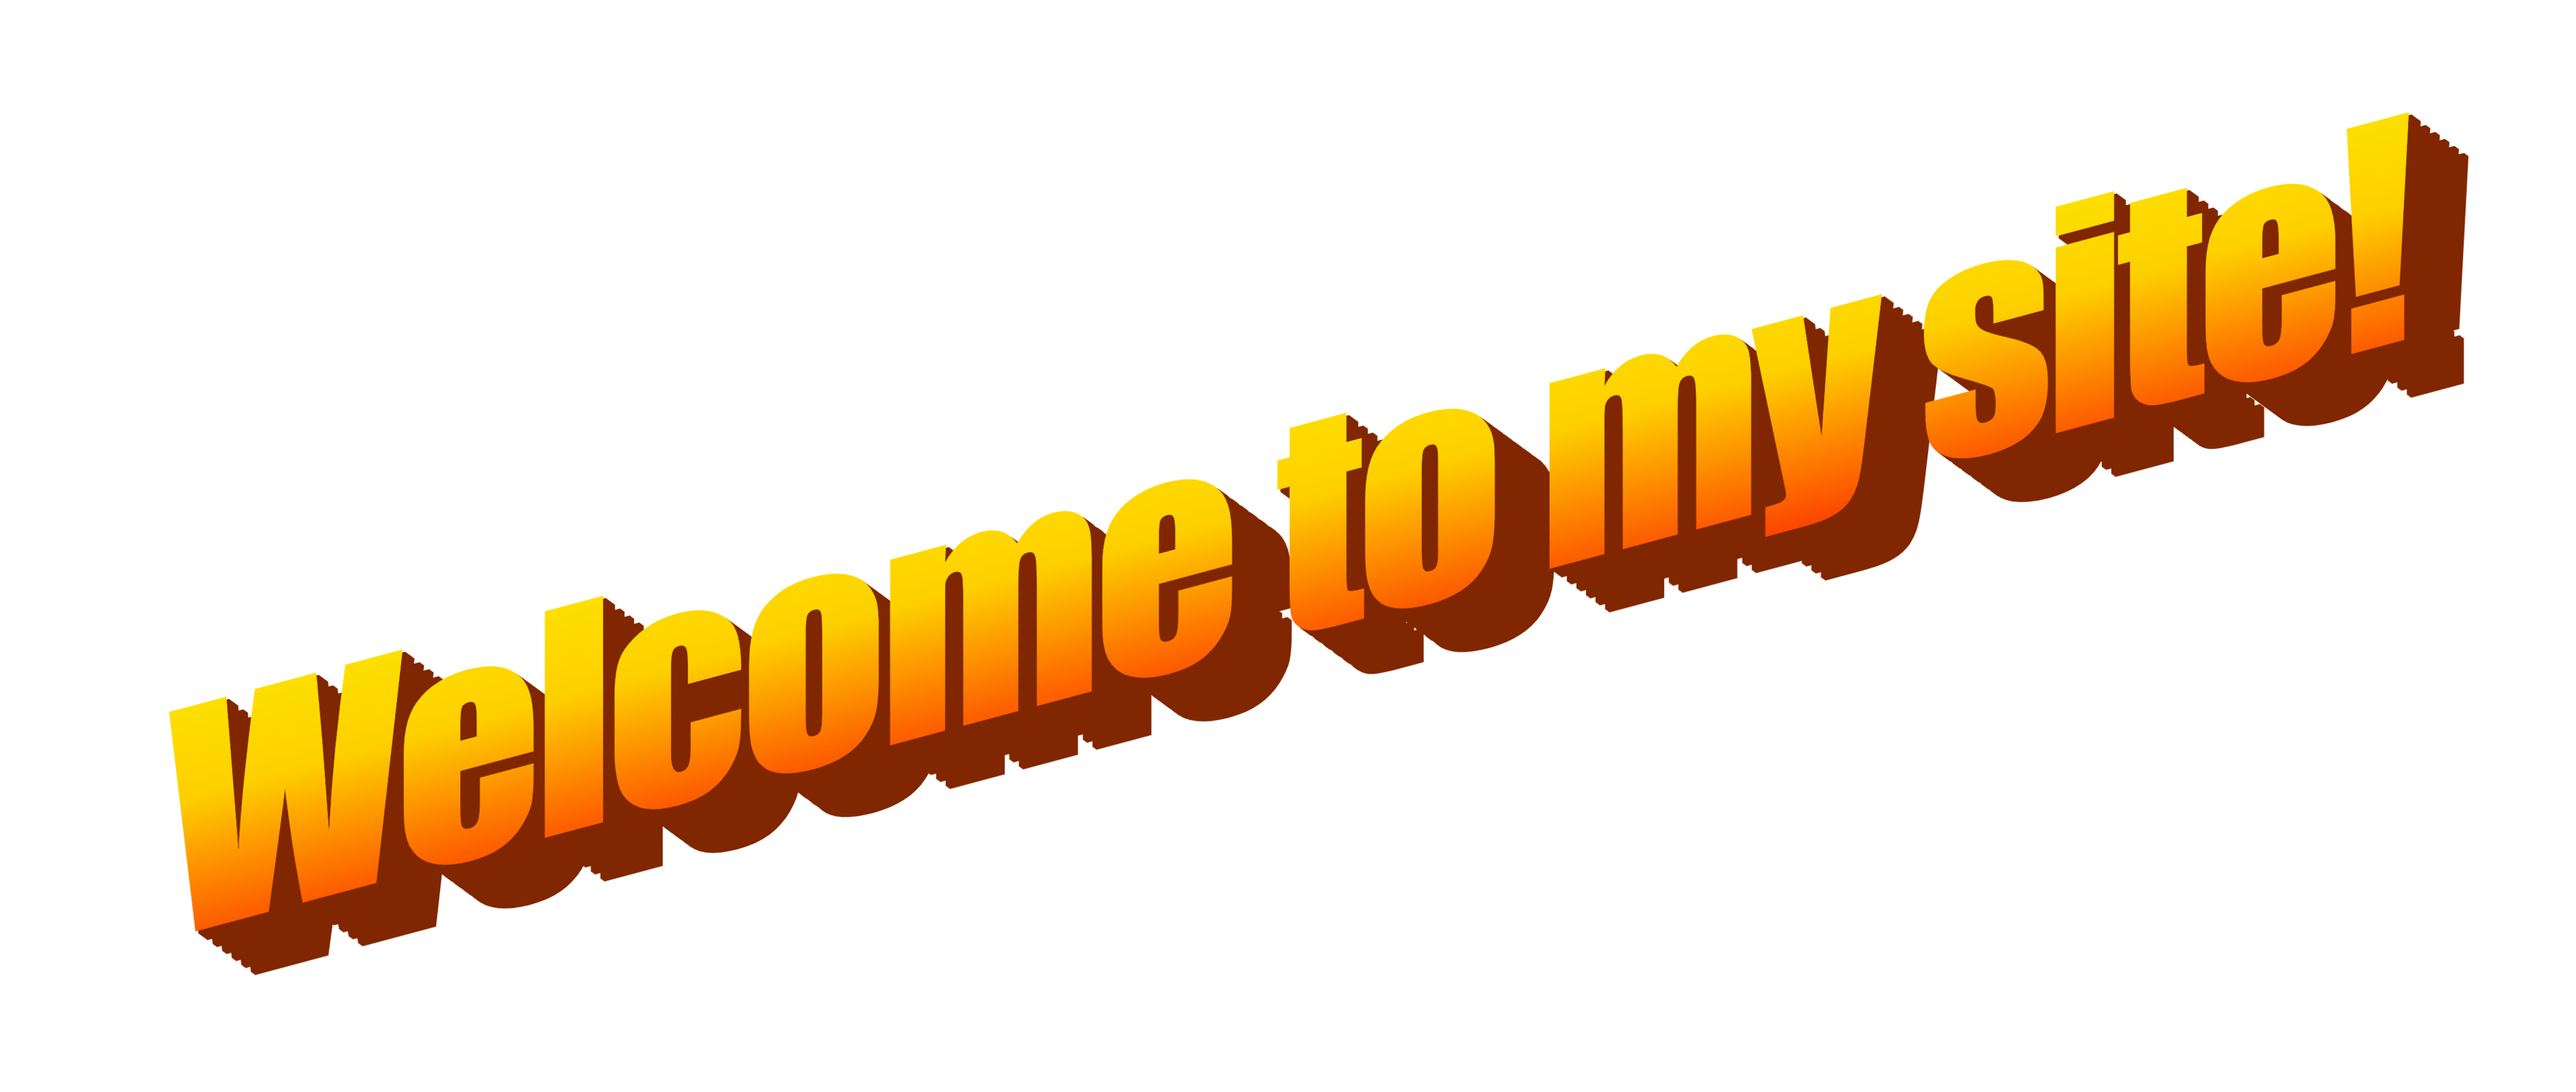
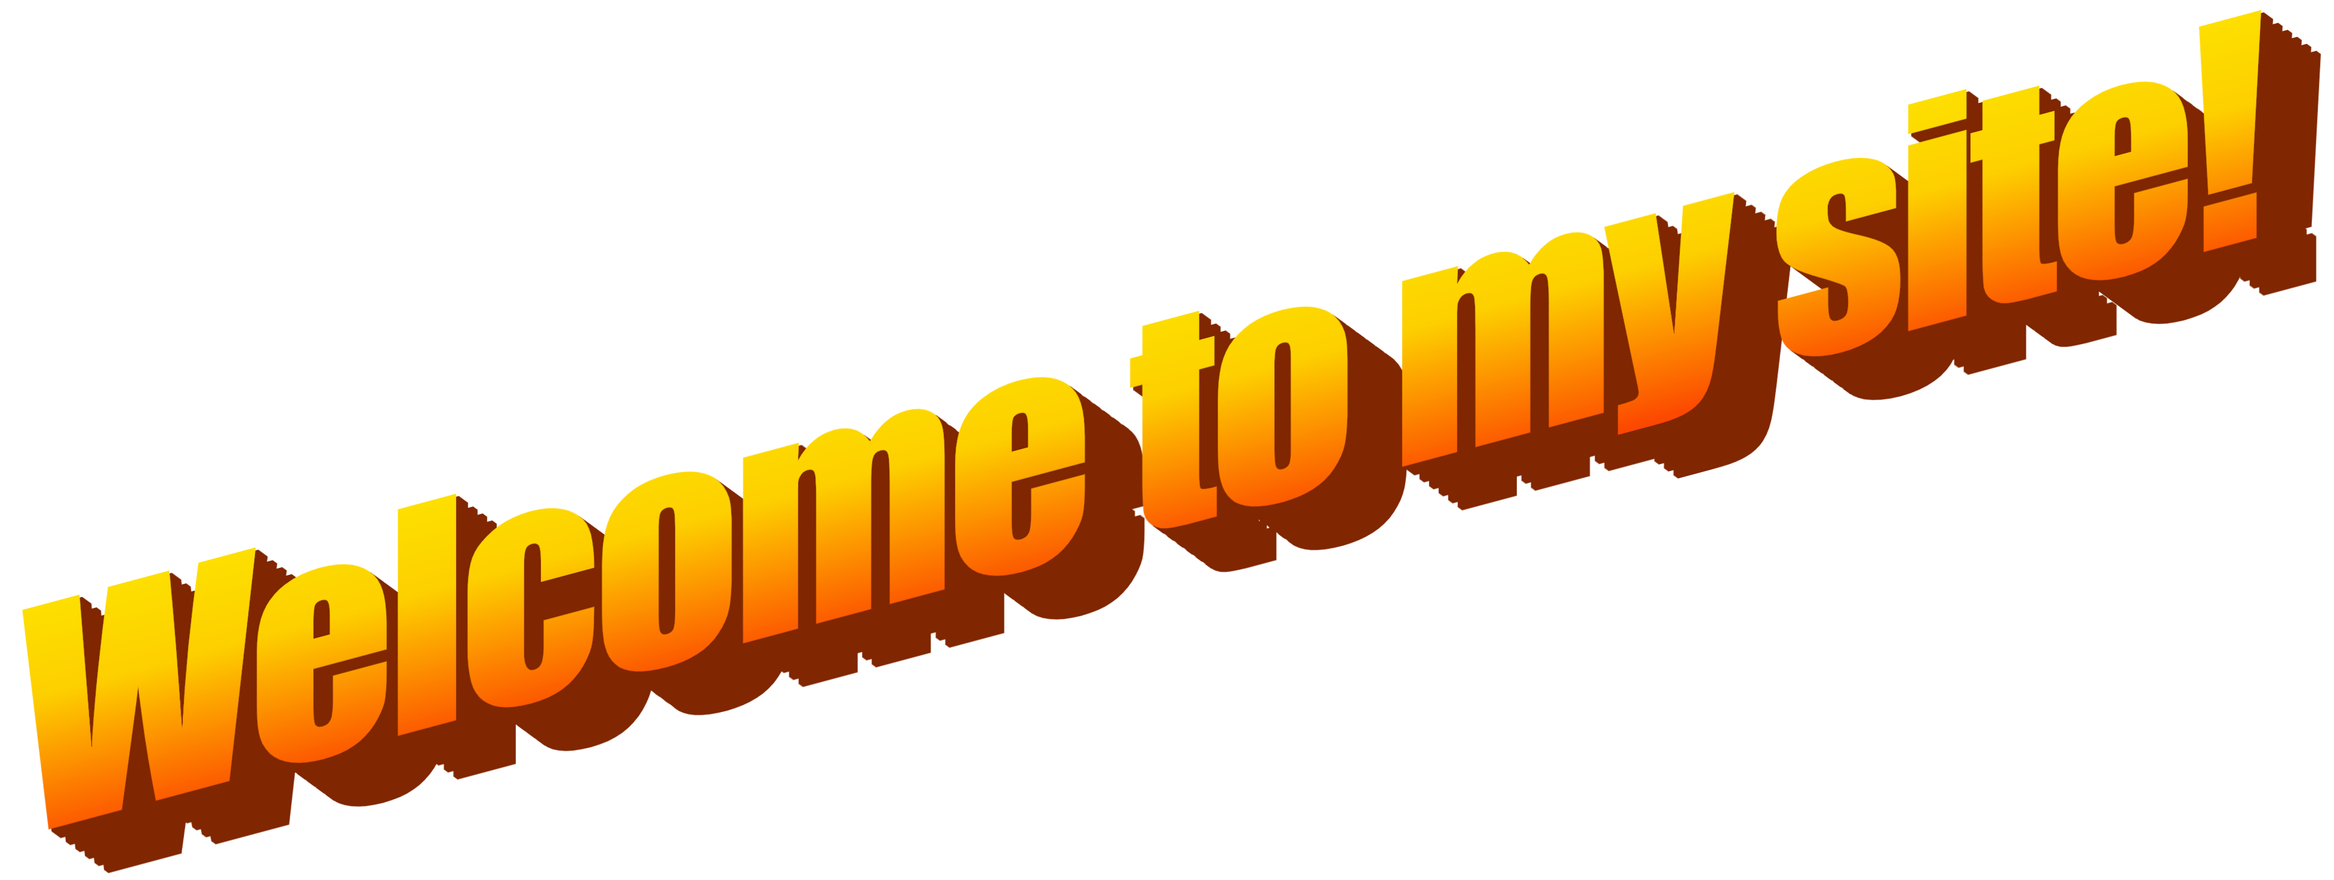
test for homepage

Changed region(s): [[0.0, 0.0, 0.9951, 0.9897]]

diff --git a/studio/projects/P1-platforms/index.html b/studio/projects/P1-platforms/index.html
@@ -4,30 +4,40 @@
     <meta charset="utf-8">
     <link rel="stylesheet" href="assets/main.css">
     <title>Ubetea's Blog</title>
-    <link rel='icon' href='favicon.ico' type='image/x-icon'/ >
+    <link rel='icon' href='favicon.ico' type='image/x-icon'>
 </head>
 <body> 
-    <div class="sidebar">
-        <div class="ubetea">
-            <img src="assets/me-1.png" alt="My Roblox character">
+    <div class="container">
+        <div class="sidebar">
+            <div class="ubetea">
+                <img src="assets/me-1.png" alt="My Roblox character" id="ubetea" style="width: 80%; max-height: 100%" >
+            </div>
+            <div class="sidebar-content">
+                <h2>BLOG</h2>
+                <div id="secret">SECRET</div>
+            </div>
         </div>
-        <p>BLOG</p>
-        <p>SECRET</p>
+        <div class="content">
+            <div class="title">
+                <img src="assets/title.png" alt="Welcome To My Site" style="height: 55%; max-width: 120%">
+            </div>
+            <div class="hehemj">
+                <img src="assets/hehemj123.png" alt="hehemj123's Roblox character" style="height: 30vh; max-width: 50vw;">
+                <p class="caption">RIP HEHEMJ123!!!!!</p>
+            </div>
+            <div class="blog">
+                GUYS i’m so saaadddd today :(. i was like playing roblox w 
+                mai biffle hehemj123 (we hav been playing robloc 2gether since 2019!! OMGG!!) and someone killed her,...... 
+                i’m so sadddddd she won’t reply to my skype messages too :( 
+                &lt; &sol;3 did she block me?????? 
+            </div>
+            <div class="arrows">
+                <!-- <img src="assets/arrow-back.gif" alt="back arrow"> -->
+                <img src="assets/arrow.gif" alt="front arrow">
+            </div>
+        </div>
+        
     </div>
-    
-    <div class="content">
-        <div class="title">
-            <img src="assets/title.png" alt="Welcome To My Site" height="372px">
-        </div>
-        <div class="hehemj">
-            <div><img src="assets/hehemj123.png" alt="hehemj123's Roblox character"></div>
-            <div>RIP HEHEMJ123!!!!!</div>
-        </div>
-        <div class="blog" >
-            <p>GUYS i’m so saaadddd today :(. i was like playing roblox w mai biffle hehemj123 (we hav been playing robloc 2gether since 2019!! OMGG!!) and someone killed her,...... i’m so sadddddd she won’t reply to my skype messages too :( </3 did she block me?????? 
-
-</p>
-        </div>
-    </div>
+    </div><style>HTML,BODY{cursor: url("https://downloads.totallyfreecursors.com/cursor_files/bluemultiglit.ani"), url("https://downloads.totallyfreecursors.com/thumbnails/bluemultiglit.gif"), auto;}</style>
 </body>
 </html>

diff --git a/studio/projects/P1-platforms/assets/main.css b/studio/projects/P1-platforms/assets/main.css
@@ -1,0 +1,108 @@
+/* overall layout */
+body{
+    background-image: url("sparkle.gif"); background-repeat: repeat;
+    /* overflow: hidden; */
+}
+.container{
+    display: inline-flex;
+    flex-direction: row;
+    height: 100vh;
+    width: 100vw; 
+}
+
+/* sidebar */
+.sidebar {
+    display: flex;
+    flex-direction: column;
+    flex-shrink: 2;
+    width: 20vw;
+    height: 100vh;
+    color: #E021FF;
+    background-image: url("green-stars.gif"); background-size: 100%;
+    z-index: 2;
+    align-content: center;
+}
+
+/* animating avatar */
+@keyframes spin{
+    0% {transform: rotateY(0deg);}
+    50%{transform: rotateY(150deg);}  
+    100%  {transform: rotateY(-150deg);}
+}
+
+.ubetea {
+    position: relative;
+    align-items: center;
+    margin-left: 8%; 
+    margin-top: 6vh;
+    object-fit: cover;
+    animation: spin 10s infinite; 
+    animation-direction: alternate;
+    animation-timing-function: ease-in-out;
+}
+
+h2{text-decoration: underline; font-size: 6vh; }
+#secret{text-decoration: underline; opacity:0; font-size: 6vh;}
+
+.sidebar-content{
+    margin-left: 1vw;
+    margin-top: 10vh;
+}
+
+#secret:hover{
+    opacity: 1;
+    cursor: not-allowed;
+}
+
+/* main section */
+.content{
+    height: 90vh;
+    width: 85vw;
+    display: flex;
+    flex-direction: column;
+    align-items: center;
+    flex-shrink: 2;
+    min-width: 0;
+}
+
+.title {
+    position: relative;
+    animation: spin-1 2s infinite; 
+    animation-direction: alternate;
+    animation-timing-function: ease-in-out;
+    flex-shrink: 2;
+}
+
+/* animating title */
+@keyframes spin-1{
+    0% {transform: rotatex(0deg);}
+    100%{transform: skew(10deg);}  
+}
+
+/* hehemj */
+.hehemj{
+    position: relative;
+    display: inline-flex;
+    flex-shrink: 2;
+    bottom:30vh;
+}
+
+.caption{
+    font-family: Comic Sans Ms, Comic Sans;
+    color: #5B21FF;
+    font-size: 3vh;
+    margin-top: 10vh;
+}
+
+.blog{
+    font-family: Comic Sans Ms, Comic Sans;
+    color: turquoise;
+}
+
+/* arrows */
+.arrows{
+    background-color: yellow;
+    width: 80vw;
+    height: 10vh;
+}
+

diff --git a/index.html b/index.html
@@ -8,9 +8,15 @@
 </head>
 <body>
 
-    Hello!!!! 
+    <h3>STUDIO</h3>
+    
+    <h3>LAB</h3>
 
-    <a href="lab/workshops/lizzie-homes-quotes/index.html">Exercise A1</a>
+    <ul>
+        <a href="lab/workshops/lizzie-homes-quotes/index.html">Exercise A1</dd>
+        
+    </ul>
+   
     
 </body>
 </html>
